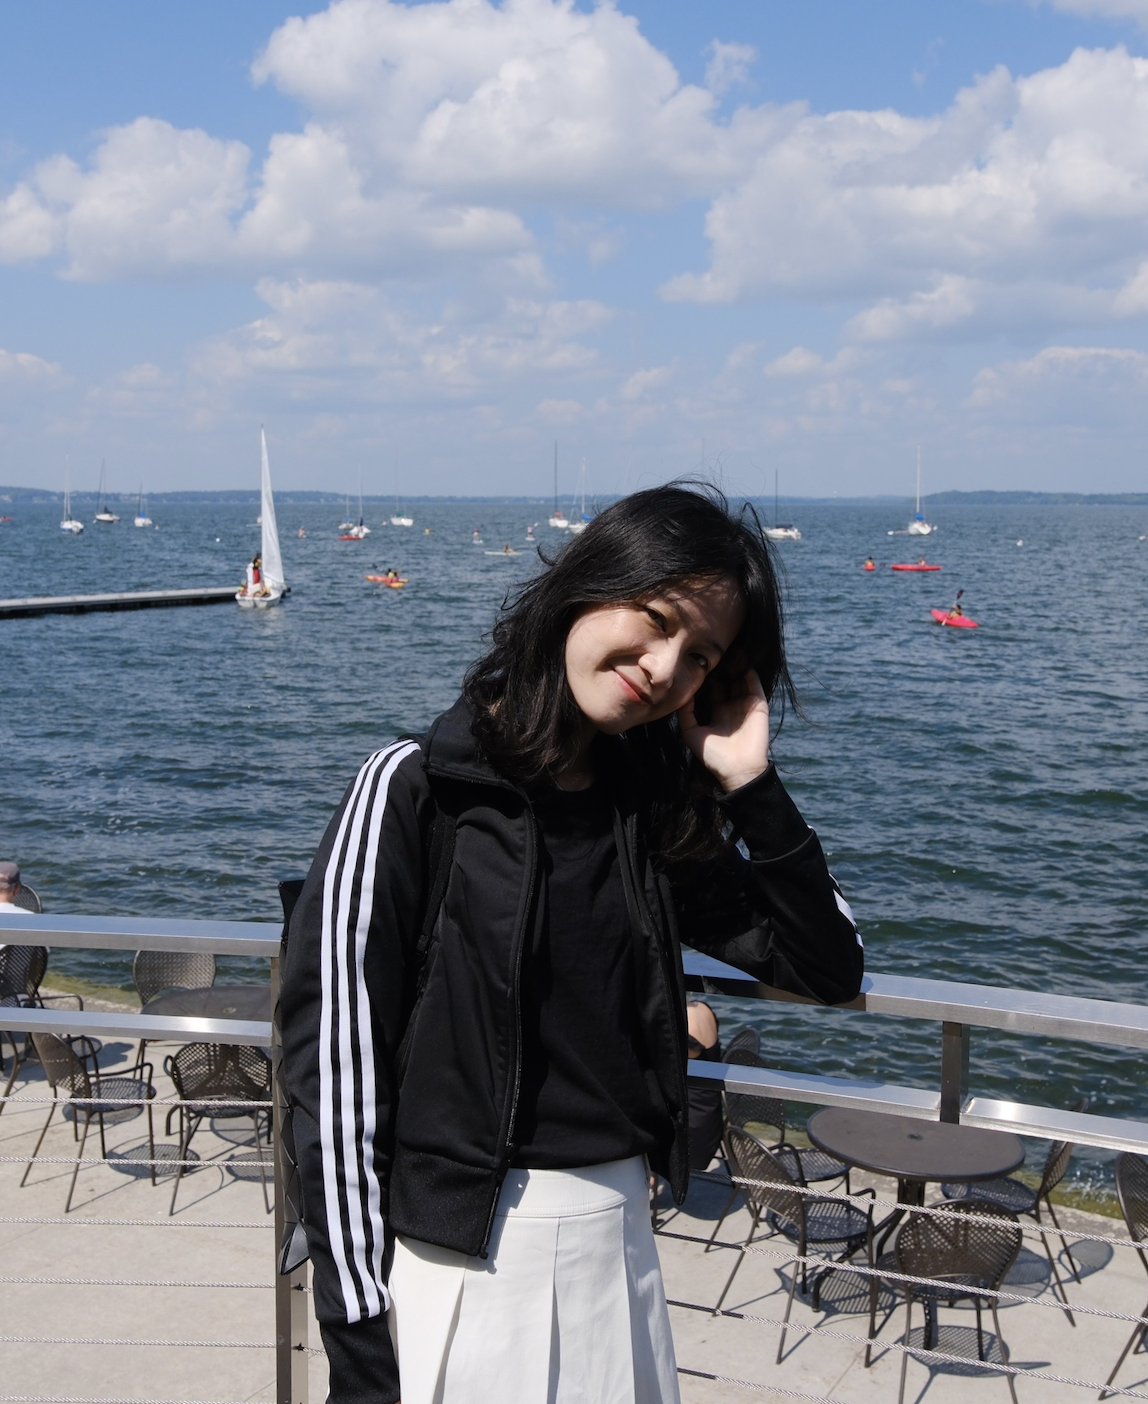
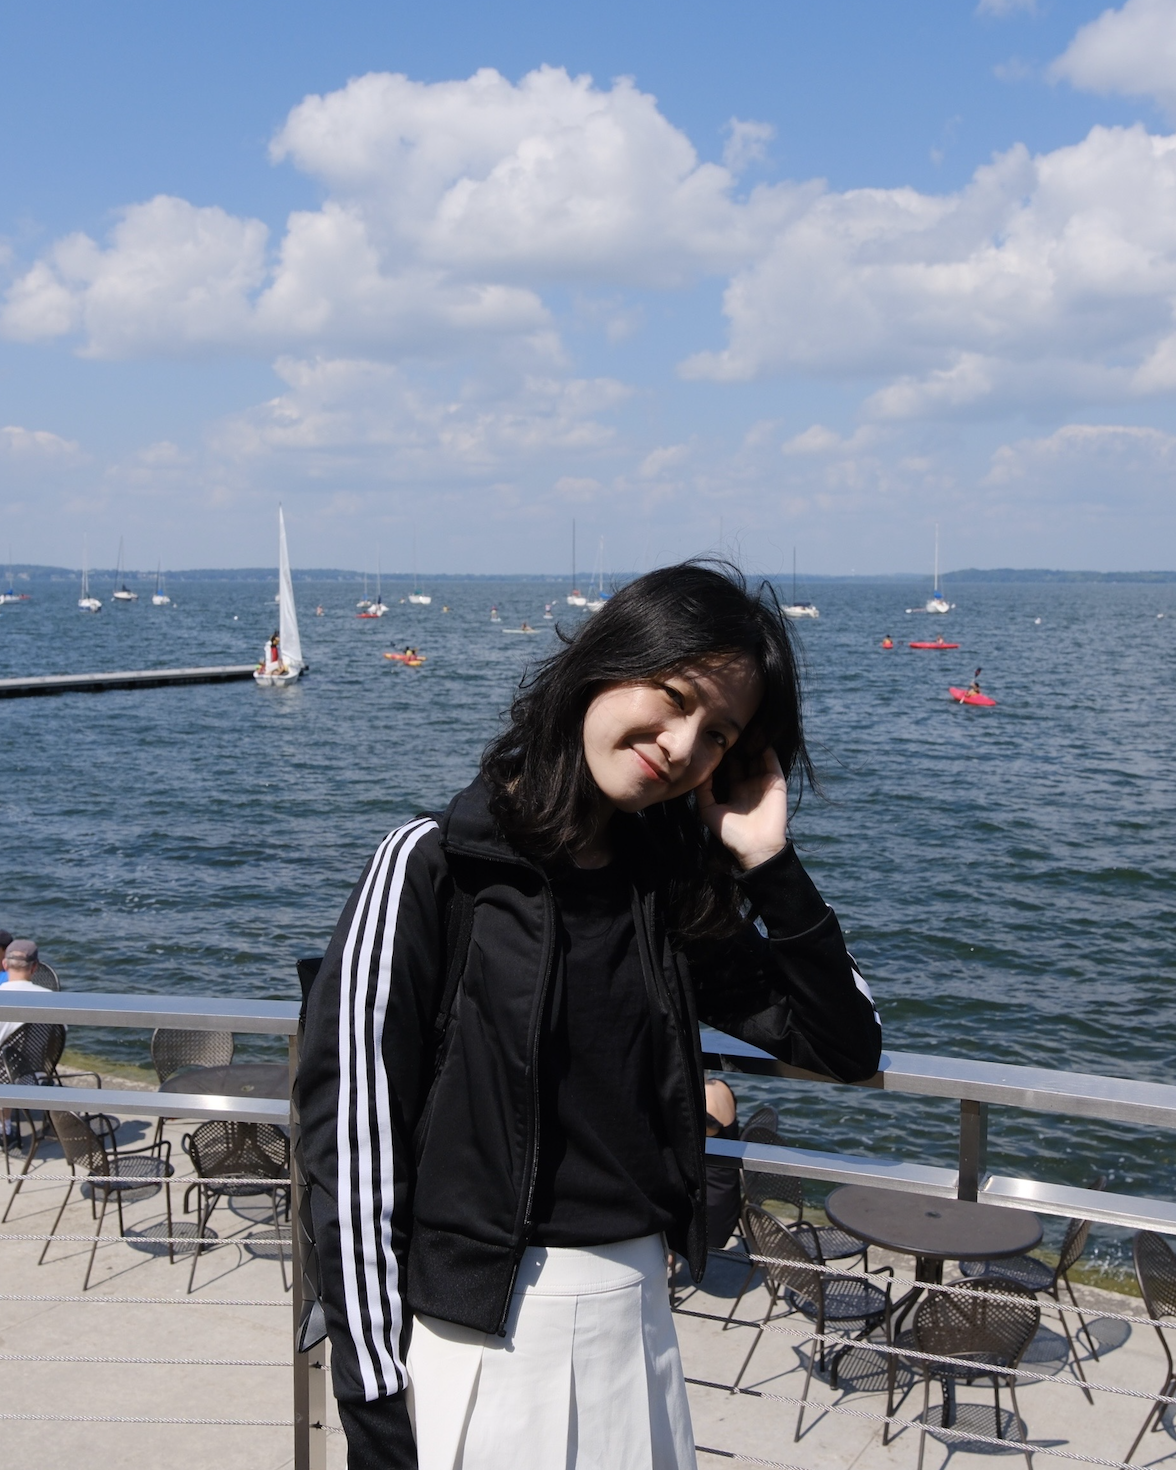
Update About page

diff --git a/src/app/about/page.tsx b/src/app/about/page.tsx
@@ -14,7 +14,7 @@ export default function AboutPage() {
   ];
 
   const education = [
-    { logo: "/logos/uwmadison.png", title: "MS in Information", company: "University of Wisconsin–Madison", period: "Sep 2026 (Incoming)", note: "Focus: Information Systems, Product Strategy, Data Analytics" },
+    { logo: "/logos/uwmadison.png", title: "MS in Information", company: "University of Wisconsin–Madison", period: "Sep 2026 - Present", note: "Focus: Information Systems, Product Strategy, Data Analytics" },
     { logo: "/logos/ntust.png", title: "MA in Design", company: "National Taiwan University of Science and Technology", period: "Mar 2020 – Jan 2023", note: "Focus: UIUX, Service Design, Customer Experience" },
     { logo: "/logos/ntue.png", title: "BA in Industrial and Product Design", company: "National Taipei University of Education", period: "Sep 2015 – Jun 2019", note: "" },
   ];
